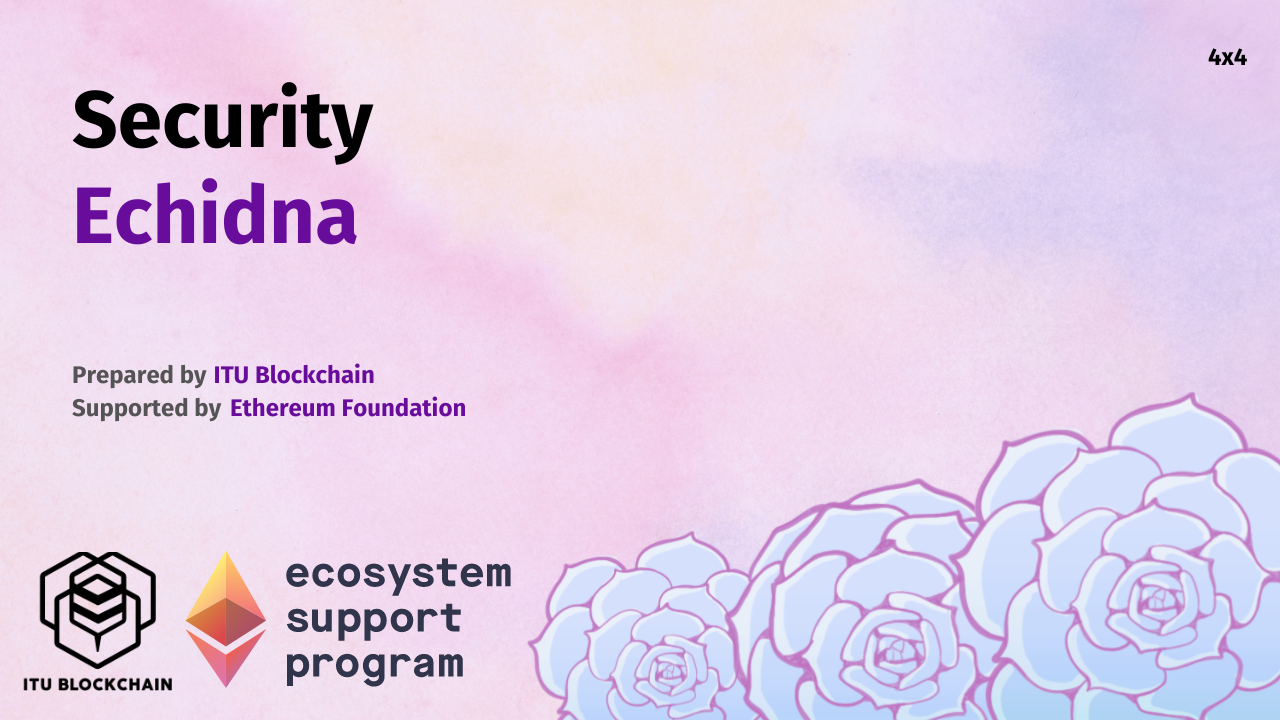
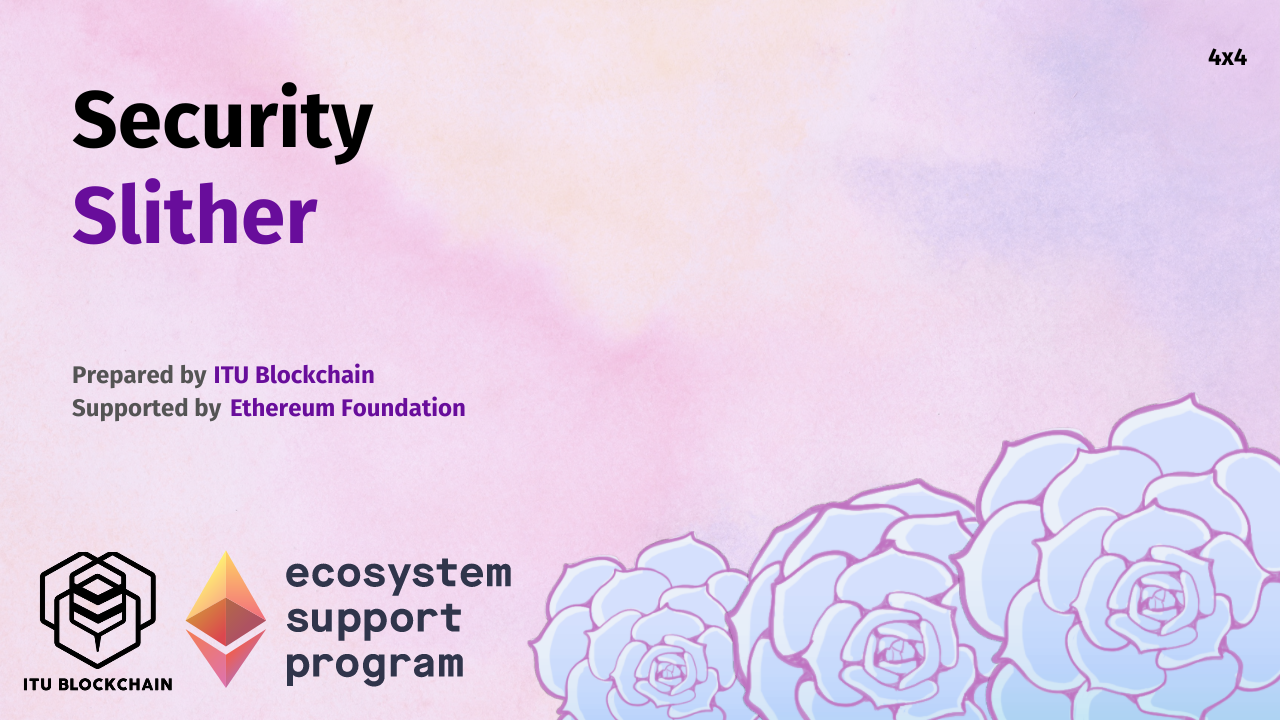
video links added, imgs changed

diff --git a/README.md b/README.md
@@ -107,8 +107,8 @@ This part includes content about Ethereum smart contract security and introduces
 | Security          | Security II           | [zetsub0ii.eth](https://twitter.com/hamza_krb) | [Published](https://youtu.be/QM1H84Z_Qtg)  | 4x1  |
 | Security          | Security III          | [tahos.eth](https://twitter.com/0xTahos)       | [Published](https://www.youtube.com/watch?v=OwAMZA4aNVk)  | 4x2  |
 | Security          | Security IV           | [tahos.eth](https://twitter.com/0xTahos)       | [Published](https://www.youtube.com/watch?v=bVfDsP4RvU4)  | 4x3  |
-| Security          | Slither               | [zetsub0ii.eth](https://twitter.com/hamza_krb) | Preparing  | 4x4  |
-| Security          | Echidna               | [zetsub0ii.eth](https://twitter.com/hamza_krb) | Preparing  | 4x5  |
+| Security          | Slither               | [zetsub0ii.eth](https://twitter.com/hamza_krb) | [Published](https://www.youtube.com/watch?v=QsFp_ql17Uk)  | 4x4  |
+| Security          | Echidna               | [zetsub0ii.eth](https://twitter.com/hamza_krb) | [Published](https://www.youtube.com/watch?v=Xc-yFcPtMyI)  | 4x5  |
 | Security          | Post Mortem Analyses  | [tahos.eth](https://twitter.com/0xTahos)       | Continual  | 4x6  |
 
 <hr/>
@@ -125,7 +125,7 @@ This part introduces some well-known usecases and contracts.
 | Tutorials         | Marketplace Contracts | [alimsahin.eth](https://twitter.com/aalimsahin) | [Published](https://www.youtube.com/watch?v=Gsw1QqvDU2Y)  | 5x3  |
 | Tutorials         | Marketplace Interface | [alimsahin.eth](https://twitter.com/aalimsahin) | [Published](https://www.youtube.com/watch?v=0WmgdBdnd3E)  | 5x4  |
 | Tutorials         | Multisig Wallet       | [0xulas.eth](https://twitter.com/ulerdogan)    | [Published](https://www.youtube.com/watch?v=XbMWZj0BYvA)  | 5x5  |
-| Tutorials         | Simple Game           | [0xulas.eth](https://twitter.com/ulerdogan)    | Published  | 5x6  |
+| Tutorials         | Simple Game           | [0xulas.eth](https://twitter.com/ulerdogan)    | [Published](https://www.youtube.com/watch?v=DtnFYq_sxvU)  | 5x6  |
 | Tutorials         | Bridge Contracts      | [zetsub0ii.eth](https://twitter.com/hamza_krb) | Preparing  | 5x7  |
 | Tutorials         | Bridge Backend        | [zetsub0ii.eth](https://twitter.com/hamza_krb) | Preparing  | 5x8  |
 | Tutorials         | Staking Contract      | [tahos.eth](https://twitter.com/0xTahos)       | Preparing  | 5x9  |
